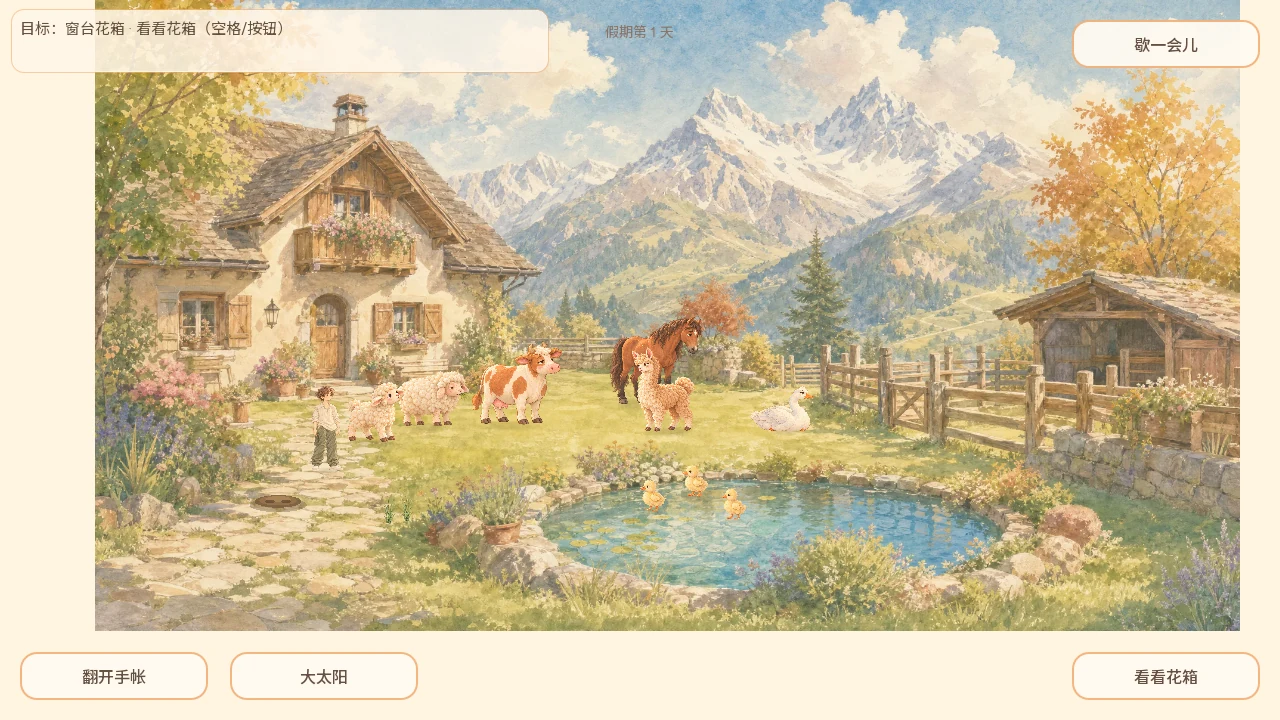
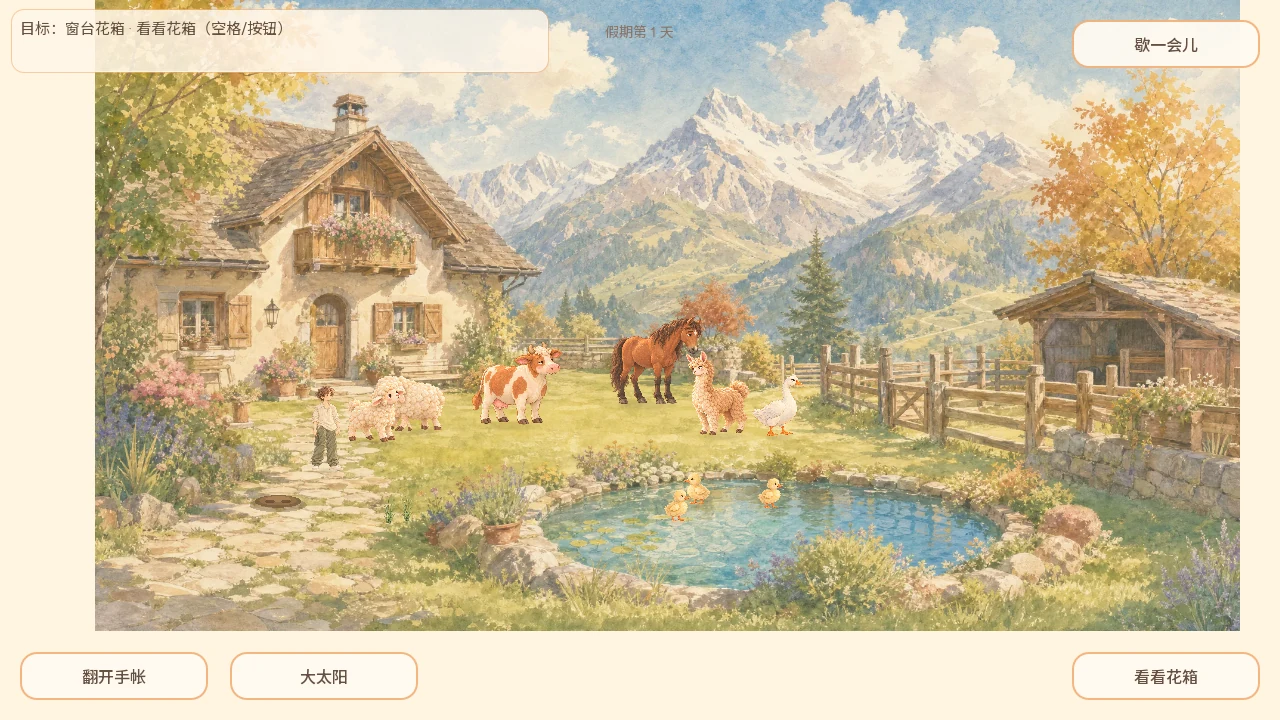
Require player-led llama entry for memory

diff --git a/docs/requirements.md b/docs/requirements.md
@@ -22,7 +22,7 @@
 | REQ-20261002-008 | P0 | 所有主动交互都有可感知的对象或场景正反馈；已分批补鸭鹅投鱼、抚摸与浇水 | 鸭鹅成功投鱼只对被喂鸟回应；牛/羊/马抚摸只对命中的动物回应；花圃当日首次有效浇水才显示水彩回应。距离不足、鱼过期、重复浇水均不得庆祝，低动效仍可读；羊驼喂/牵、种花/收获及其它交互继续盘点，不得提前标整条需求完成。 | 进行中（前两切片已上线） | `MANUS-CONTRIBUTOR` | [issue #30](https://github.com/narutojzm1-dot/youjia/issues/30)、[决策记录](decisions/REQ-20261002-008.md)、[投鱼 PR #32](https://github.com/narutojzm1-dot/youjia/pull/32)、[抚摸与浇水 PR #35](https://github.com/narutojzm1-dot/youjia/pull/35)；正式 `game-3e23a10` 已核对清单和 PCK。REQ-001 主角动作仍属并行工作。 |
 | REQ-20261002-009 | P0 | 将可见小院细节变成可发现、可随时打断且保持精致绘画的场景交互和彩蛋 | 首批逐处验收花箱、池塘岸石和木栅栏真实画面命中、院内安全站位、键鼠/触屏/HUD 同目标、独立水彩回应；蝴蝶、蜻蜓、棚檐羽毛等无收益偶遇可在正常散步见到，无签到/任务/错过惩罚。保留钓鱼、植物和动物优先级、低动效及旧存档。叠加型草叶**不等于真正能开木门**，原背景物件替换/多热点规模化仍需单独验证。 | 进行中（花箱、岸石和栅栏三处已上线；更多热点/底图替换仍未实现） | `MANUS-CONTRIBUTOR` | [issue #36](https://github.com/narutojzm1-dot/youjia/issues/36)、[需求记录](decisions/REQ-20261002-009.md)、[背景架构](architecture/painted-yard-interactions.md)、[PR #38](https://github.com/narutojzm1-dot/youjia/pull/38)、[#39](https://github.com/narutojzm1-dot/youjia/pull/39)、[#41](https://github.com/narutojzm1-dot/youjia/pull/41) 与正式 `game-df8b92d` 公网 PCK 校验。REQ-001 走速切片已在 PR #27 合入发布；其互动动作继续独立推进。 |
 | REQ-20261002-010 | P0 | 旅人随手拍：替换莫名镜头推近，让真实新照片形成、写当天短句并可见地收入相册 | 仅首次有效抓拍且持久保存后显出**同一张真实快照**，照片定日期与规则事件的中英短句；暂停/移动/开相册随时打断展示但不丢照片。低动效静帧，重复事件不重播；旧档无日期不伪造日期且原相册仍可看。通过实际事件、原生/浏览器画面和完整回归核验。 | 已合入；正式发布工作流成功，待公网体验复核 | `MANUS-CONTRIBUTOR` | 用户正式版试玩反馈：[issue #40](https://github.com/narutojzm1-dot/youjia/issues/40)；[摄影实现 PR #43](https://github.com/narutojzm1-dot/youjia/pull/43) 于 2026-10-02 合入 `main`；验证和 Pages 工作流成功，公网体验待记录。 |
-| REQ-20261002-011 | P1 | 让玩家互动在之后留下轻微、可感知的世界回响与后续故事 | 以稀疏、可解释的动物关系记忆产生可观察的相处变化；关系因真实共同经历改变并兼容旧档，不做显眼数值任务或缺席衰退，保留随机性。先完成已获产品确认的鹅—羊驼切片，再依据试玩决定是否扩展，不建设通用剧情引擎。 | 进行中（首个鹅—羊驼关系切片实现中） | `CODEX-LEAD` | 制作人于 2026-10-03 确认“玩家牵引羊驼靠近大鹅、双方安静共处后留下记忆”。实现与验收见本 PR；[关系模型](architecture/animal-relationship-model.md)。该片复用现有画作，无新资源依赖；#56 的鹅马让步姿态仍属后续独立提案。[issue #45](https://github.com/narutojzm1-dot/youjia/issues/45)、[#56](https://github.com/narutojzm1-dot/youjia/issues/56)。 |
+| REQ-20261002-011 | P1 | 让玩家互动在之后留下轻微、可感知的世界回响与后续故事 | 以稀疏、可解释的动物关系记忆产生可观察的相处变化；关系因真实共同经历改变并兼容旧档，不做显眼数值任务或缺席衰退，保留随机性。先完成已获产品确认的鹅—羊驼切片，再依据试玩决定是否扩展，不建设通用剧情引擎。 | 待评审（独立审查提出阻断后已修复，等待新 SHA 复审） | `CODEX-LEAD` | 制作人于 2026-10-03 确认“玩家牵引羊驼靠近大鹅、双方安静共处后留下记忆”。实现与验收见 [PR #71](https://github.com/narutojzm1-dot/youjia/pull/71)；[关系模型](architecture/animal-relationship-model.md)。该片复用现有画作，无新资源依赖；#56 的鹅马让步姿态仍属后续独立提案。[issue #45](https://github.com/narutojzm1-dot/youjia/issues/45)、[#56](https://github.com/narutojzm1-dot/youjia/issues/56)。 |
 | REQ-20261002-012 | P1 | 让熟悉的小院随时段天空和玩家构图反复呈现新意 | 同一场景通过晨/午/晚光线、云形与天气、树水细节和偶发趣事支持反复观看；摄影探索玩家选择角度、前景和画面关系的可能性。可研究轻量场内摄影演出：主人静坐时，动物事件从远景进入、经主人视角跟随后聚焦近景并留下照片。先验证美术方案、操作可读性、资源成本与 Web 性能；汽水瓶仅为构图例子，不预设具体道具或 UI。保留安静停留和随机探索，不加入打卡/集齐目标。 | 设计拆分中（草案） | CURSOR-CONTRIBUTOR-LOCAL | [issue #48](https://github.com/narutojzm1-dot/youjia/issues/48)；拆分草案见 [architecture/familiar-yard-observation.md](architecture/familiar-yard-observation.md)。实现需用户确认切片顺序；与 REQ-005 云带方案衔接但不抢 REQ-011。 |
[1 lines of base64/hex data omitted]
 | REQ-20261002-016 | P0 | 为旅人递草喂羊驼设计第一组可读互动动作规格 | 盘点现有旅人图集；提交递草前、递出、羊驼接收、收回手臂的动作分镜和锚点/时长/打断/低动效/Web 体积规格；不改玩法逻辑、不制作最终帧，待产品确认后再另开实现任务。 | 已指定（仅动作资源提案） | `GROK-CONTRIBUTOR` | [issue #70](https://github.com/narutojzm1-dot/youjia/issues/70)。源自制作人关于旅人缺少互动动作的试玩反馈；不覆盖 REQ-011、PR #65 或动物姿态需求。 |

diff --git a/docs/decisions.md b/docs/decisions.md
@@ -23,7 +23,7 @@
 | REQ-20261002-008 | 2026-10-02 | 为主动互动补足真实对象回应 | 进行中 | 鸭鹅投鱼见 [PR #32](https://github.com/narutojzm1-dot/youjia/pull/32)，抚摸和浇水见 [PR #35](https://github.com/narutojzm1-dot/youjia/pull/35)；更多互动仍待盘点。 |
 | REQ-20261002-009 | 2026-10-02 | 让院子里的可见地点成为可选互动和彩蛋 | 进行中 | 花箱、岸石和栅栏三处已发布至 `game-df8b92d`（[PR #38](https://github.com/narutojzm1-dot/youjia/pull/38)、[#39](https://github.com/narutojzm1-dot/youjia/pull/39)、[#41](https://github.com/narutojzm1-dot/youjia/pull/41)）；更多热点与可变背景仍待实现。 |
 | REQ-20261002-010 | 2026-10-02 | 让旅人随手拍有清晰的成片、题词和收入相册反馈 | 已发布；用户认可显影效果 | [PR #43](https://github.com/narutojzm1-dot/youjia/pull/43) 已发布为正式 `game-e2d12b7`；Pages 公网 PCK 哈希已核实；用户试玩后提出真实抓拍、稳定题词与翻页手账的下一切片 REQ-013。 |
-| REQ-20261002-011 | 2026-10-02 | 让玩家互动在之后留下轻微、可感知的世界回响与后续故事 | 首个鹅—羊驼切片已获确认，正在实现 | 制作人于 2026-10-03 确认“玩家牵引羊驼靠近大鹅、双方安静共处后留下记忆”。由 CODEX-LEAD 实施稀疏存档记忆与低概率行为回响；不涉及关系数值、任务、缺席惩罚、相机/相册。见 [issue #45](https://github.com/narutojzm1-dot/youjia/issues/45)、[关系模型](architecture/animal-relationship-model.md)和本 PR。 |
+| REQ-20261002-011 | 2026-10-02 | 让玩家互动在之后留下轻微、可感知的世界回响与后续故事 | 待评审（来源判定阻断已修复，等待独立复审新 SHA） | 制作人于 2026-10-03 确认“玩家牵引羊驼靠近大鹅、双方安静共处后留下记忆”。首个切片通过羊驼自身进入共享范围后才记来源；只存稀疏记忆与低概率行为回响，不涉关系数值、任务、缺席惩罚、相机/相册。见 [PR #71](https://github.com/narutojzm1-dot/youjia/pull/71)、[issue #45](https://github.com/narutojzm1-dot/youjia/issues/45)与[关系模型](architecture/animal-relationship-model.md)。 |
 | REQ-20261002-012 | 2026-10-02 | 让熟悉的小院因时段天空与玩家取景持续有新发现 | 设计拆分中（草案） | Owner CURSOR-CONTRIBUTOR-LOCAL 起草观察/构图切片顺序；见 [familiar-yard-observation.md](architecture/familiar-yard-observation.md)。未批准具体 UI 或成套天空资源。 |
[1 lines of base64/hex data omitted]
 | REQ-20261002-016 | 2026-10-03 | 为旅人递草喂羊驼设计第一组可读互动动作规格 | 提案进行中 | 由制作人关于“主角缺少其他动作，互动显得呆板”的试玩反馈拆出；先做现有图集盘点和递草分镜规格，不先改逻辑或制作最终资源。已指定 `GROK-CONTRIBUTOR`，见 [issue #70](https://github.com/narutojzm1-dot/youjia/issues/70)。 |
@@ -297,7 +297,7 @@ Scale 弹跳从 1.04 提升至 1.08，点击可靠性不变。
 
 **范围：** 复用现有鹅和羊驼画作，不需要新增美术；独立于 REQ-014 鹅骑马摄影演出与 REQ-012 天空/自由构图。Issue #56 的鹅马关系姿态仍是未确认的后续资源提案。
 
-**实现及验证：** 当前 PR 实现稀疏记忆与 SaveStore v5 兼容迁移；Godot 4.7.2 日常回归通过，Web/浏览器验证待本 PR 最终 SHA 重跑并复审。
+**实现及验证：** 当前 PR 实现稀疏记忆与 SaveStore v5 兼容迁移。独立审查指出，早期来源检测把鹅的移动当成玩家牵引羊驼；已修复为羊驼本身必须在主动牵行中跨入共享范围，并加入鹅单独往返不触发与既有记忆不重复排队的回归；新 SHA 的完整回归和独立复审待完成。
 
 ### 2026-10-03 · REQ-001 旅人互动动作提案拆分
 

diff --git a/docs/playtests/2026-10-03-REQ-011-shared-space.md b/docs/playtests/2026-10-03-REQ-011-shared-space.md
@@ -15,15 +15,15 @@
 | 项目 | 结果 |
 | --- | --- |
 | Godot 项目扫描 | 最新 `main` 基线 `ef76c564ed1608aebfb0740ad60182245a0d5a81`（已合入 REQ-012 设计拆分）；Godot 4.7.2 headless editor 扫描通过，关系模型和独立 encounter 类注册成功。 |
-| 关系与存档回归 | `test/test_suite.tscn` 406 项通过，覆盖来源门槛、离开范围撤销、平静状态和时长、单次结算、10% 随机回响、v4 空字段迁移和关系持久化。 |
-| 完整日常回归 | 基于最新 main 重放后的工作树运行 `GODOT=<4.7.2> npm run verify:daily`，全套通过：通用 405、步态 410、动物家园 1005、物理院子 658、照片 1162；存档、交互、目标、热点、加载与多视口套件均无失败。 |
[1 lines of base64/hex data omitted]
-| Chromium | 从本地 HTTP 服务打开当前导出，游戏标题“悠长的假期”、单一画布和院子可见；错误控制台与 HTTP 4xx/5xx 响应均为 0。[最新基线截图](2026-10-03-REQ-011/web-main-rebased-yard.webp)证明 Web 启动与院子渲染；[牵行 HUD 截图](2026-10-03-REQ-011/web-leading-llama.webp)来自同一关系候选早先导出，只展示牵行状态。两张图都不证明玩家已在浏览器里观察到持久记忆后的变化。 |
+| 关系与存档回归 | 独立审查发现首版来源测试允许鹅单独离开/回来却误归因给玩家；现已修复：必须由羊驼自身在牵行时跨入共享范围。`test/test_suite.tscn` 修复后 412 项通过，覆盖鹅单独往返不触发、羊驼主动进入触发、离开撤销、平静状态和时长、单次结算、10% 随机回响、v4 缺字段迁移，以及旧相册/植物/假期/钓鱼保留和关系记忆持久化。 |
+| 完整日常回归 | 在最新 main 重放后的修复工作树运行 `GODOT=<4.7.2> npm run verify:daily`，全套通过：通用 411、步态 410、动物家园 1005、物理院子 658、照片 1162；存档、交互、目标、热点、加载与多视口套件均无失败。 |
[1 lines of base64/hex data omitted]
+| Chromium | 最新导出从本地 HTTP 服务打开，游戏标题“悠长的假期”、单一画布和院子可见；错误控制台与 HTTP 4xx/5xx 响应均为 0。[最新基线截图](2026-10-03-REQ-011/web-main-rebased-yard.webp)证明 Web 启动与院子渲染；[牵行 HUD 截图](2026-10-03-REQ-011/web-leading-llama.webp)来自同一关系候选早先导出，只展示牵行状态。两张图都不证明玩家已在浏览器里观察到持久记忆后的变化。 |
 | 现场功能验收 | 尚未完成真实浏览器中走到大鹅附近、放开、观察记忆后续变化的长时体验；发布前须在 PR 构建中复核并补入正式截图/步骤。 |
 
 ## 当前阻塞
 
-最新 main 基线、本地回归、导出与 Chromium 启动已验证；必须等待 PR 检查构建和后续浏览器现场观察，再评估“偶尔多停留片刻”是否足够可感知。独立子代理最终 SHA 审查与 PR 尚待完成。
+首版因来源误归因收到独立审查 `REQUEST CHANGES`；修复后须重跑完整日常回归和 Web 导出、请独立子代理审查新 SHA。之后还需在浏览器现场观察并评估“偶尔多停留片刻”是否足够可感知。PR #65 尚处开放状态，与本 PR 共用部分世界代码；集成后仍需重新核验。
 
 ## 截图
 
